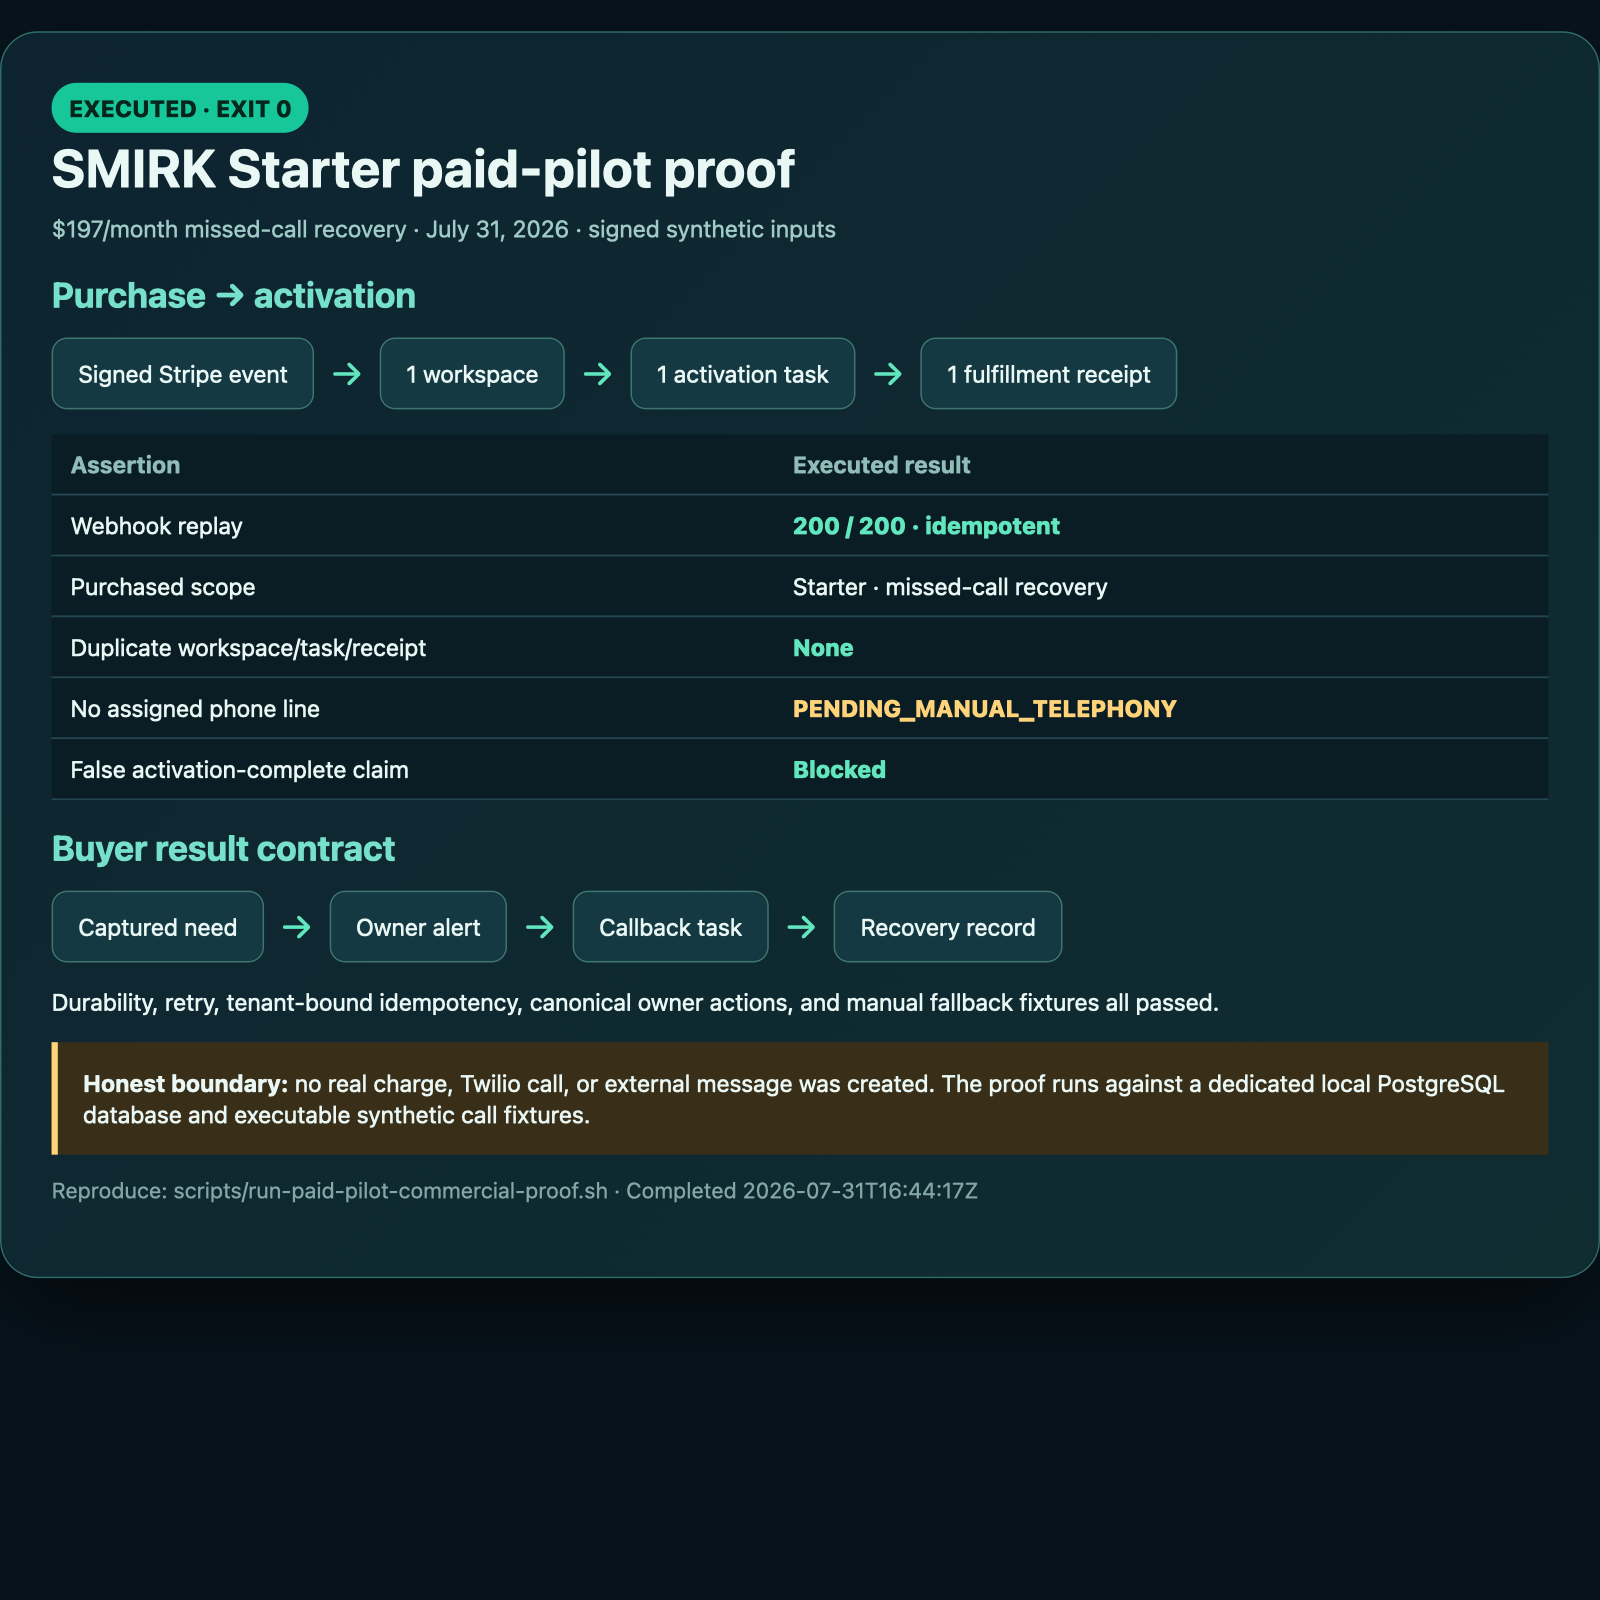
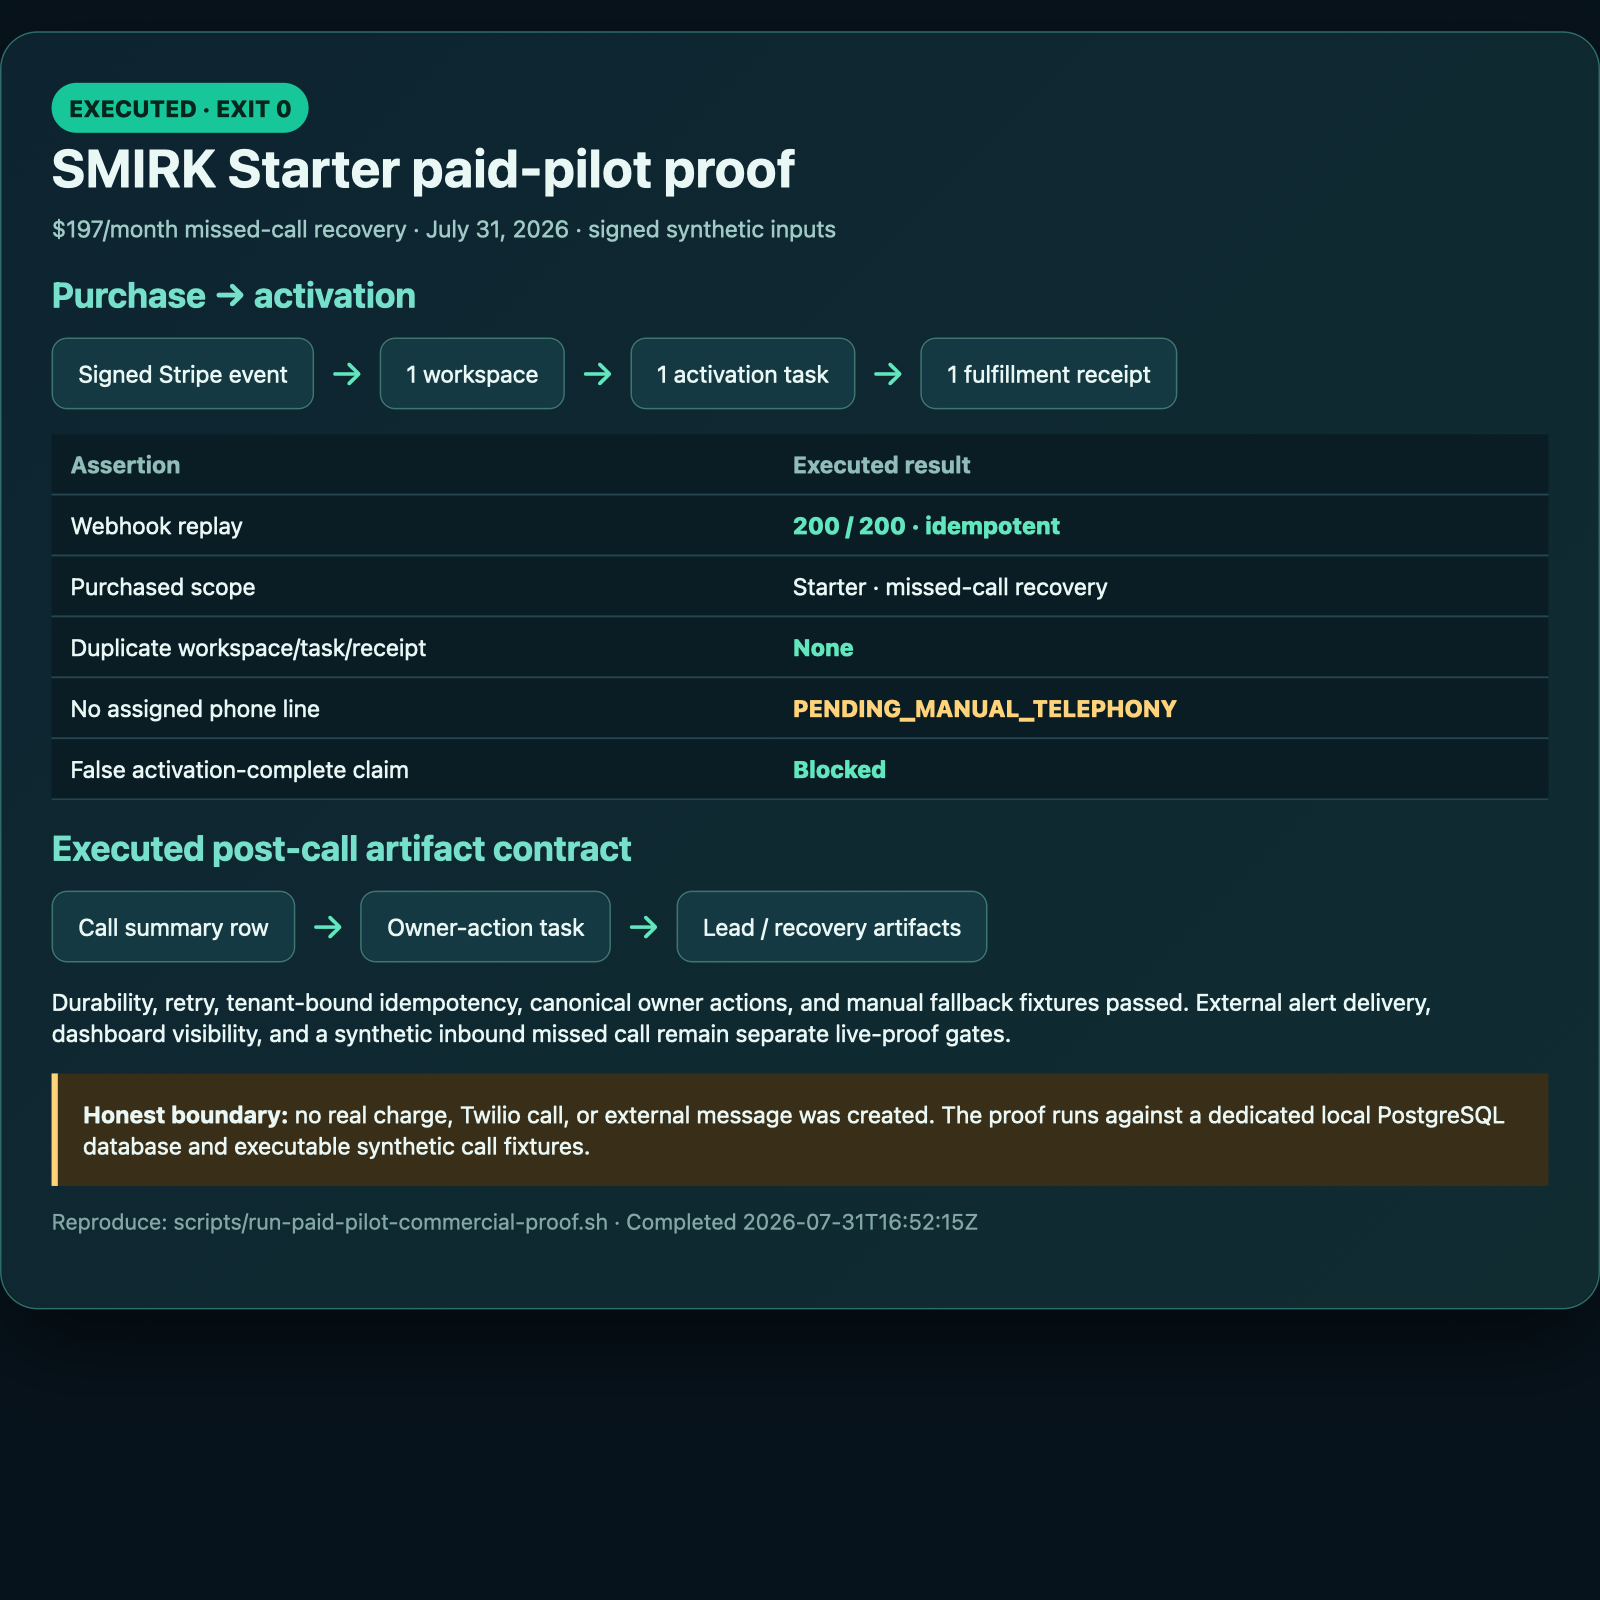
revenue: reconcile proof and outreach audit

Changed region(s): [[0.0, 0.625, 1.0, 0.8438], [0.0312, 0.5, 0.6562, 0.5938]]

diff --git a/artifacts/revenue/2026-07-31/SMIRK_STARTER_PAID_PILOT_PROOF.html b/artifacts/revenue/2026-07-31/SMIRK_STARTER_PAID_PILOT_PROOF.html
@@ -1,1 +1,1 @@
-<!doctype html><html><head><meta charset="utf-8"><title>SMIRK Paid-Pilot Proof</title><style>body{margin:0;background:#07131c;color:#e9f7f5;font:15px/1.35 -apple-system,BlinkMacSystemFont,"Segoe UI",sans-serif}main{max-width:1100px;margin:20px auto;padding:32px;background:linear-gradient(135deg,#0d2430,#102c31);border:1px solid #2d6c68;border-radius:24px;box-shadow:0 25px 70px #0008}h1{font-size:34px;margin:0 0 6px}.sub{color:#9fcac5;margin-bottom:18px}.badge{display:inline-block;background:#17c79a;color:#06251d;font-weight:800;padding:6px 11px;border-radius:99px}section{margin:16px 0}h2{color:#77e0cb;margin:12px 0}table{width:100%;border-collapse:collapse;background:#0a1d25}th,td{padding:9px 12px;border-bottom:1px solid #244650;text-align:left}th{color:#91bdb8}.pass{color:#62e6be;font-weight:800}.pending{color:#ffd37a;font-weight:800}.flow{display:flex;gap:10px;align-items:center;flex-wrap:wrap}.step{background:#153942;border:1px solid #3d756f;padding:12px 16px;border-radius:10px}.arrow{color:#62e6be;font-size:24px}.note{padding:16px;border-left:4px solid #ffd37a;background:#392f18}.foot{color:#83a7a5;font-size:14px}</style></head><body><main><span class="badge">EXECUTED · EXIT 0</span><h1>SMIRK Starter paid-pilot proof</h1><div class="sub">$197/month missed-call recovery · July 31, 2026 · signed synthetic inputs</div><section><h2>Purchase → activation</h2><div class="flow"><div class="step">Signed Stripe event</div><div class="arrow">→</div><div class="step">1 workspace</div><div class="arrow">→</div><div class="step">1 activation task</div><div class="arrow">→</div><div class="step">1 fulfillment receipt</div></div></section><section><table><tr><th>Assertion</th><th>Executed result</th></tr><tr><td>Webhook replay</td><td class="pass">200 / 200 · idempotent</td></tr><tr><td>Purchased scope</td><td>Starter · missed-call recovery</td></tr><tr><td>Duplicate workspace/task/receipt</td><td class="pass">None</td></tr><tr><td>No assigned phone line</td><td class="pending">PENDING_MANUAL_TELEPHONY</td></tr><tr><td>False activation-complete claim</td><td class="pass">Blocked</td></tr></table></section><section><h2>Buyer result contract</h2><div class="flow"><div class="step">Captured need</div><div class="arrow">→</div><div class="step">Owner alert</div><div class="arrow">→</div><div class="step">Callback task</div><div class="arrow">→</div><div class="step">Recovery record</div></div><p>Durability, retry, tenant-bound idempotency, canonical owner actions, and manual fallback fixtures all passed.</p></section><div class="note"><strong>Honest boundary:</strong> no real charge, Twilio call, or external message was created. The proof runs against a dedicated local PostgreSQL database and executable synthetic call fixtures.</div><p class="foot">Reproduce: scripts/run-paid-pilot-commercial-proof.sh · Completed 2026-07-31T16:44:17Z</p></main></body></html>
+<!doctype html><html><head><meta charset="utf-8"><title>SMIRK Paid-Pilot Proof</title><style>body{margin:0;background:#07131c;color:#e9f7f5;font:15px/1.35 -apple-system,BlinkMacSystemFont,"Segoe UI",sans-serif}main{max-width:1100px;margin:20px auto;padding:32px;background:linear-gradient(135deg,#0d2430,#102c31);border:1px solid #2d6c68;border-radius:24px;box-shadow:0 25px 70px #0008}h1{font-size:34px;margin:0 0 6px}.sub{color:#9fcac5;margin-bottom:18px}.badge{display:inline-block;background:#17c79a;color:#06251d;font-weight:800;padding:6px 11px;border-radius:99px}section{margin:16px 0}h2{color:#77e0cb;margin:12px 0}table{width:100%;border-collapse:collapse;background:#0a1d25}th,td{padding:9px 12px;border-bottom:1px solid #244650;text-align:left}th{color:#91bdb8}.pass{color:#62e6be;font-weight:800}.pending{color:#ffd37a;font-weight:800}.flow{display:flex;gap:10px;align-items:center;flex-wrap:wrap}.step{background:#153942;border:1px solid #3d756f;padding:12px 16px;border-radius:10px}.arrow{color:#62e6be;font-size:24px}.note{padding:16px;border-left:4px solid #ffd37a;background:#392f18}.foot{color:#83a7a5;font-size:14px}</style></head><body><main><span class="badge">EXECUTED · EXIT 0</span><h1>SMIRK Starter paid-pilot proof</h1><div class="sub">$197/month missed-call recovery · July 31, 2026 · signed synthetic inputs</div><section><h2>Purchase → activation</h2><div class="flow"><div class="step">Signed Stripe event</div><div class="arrow">→</div><div class="step">1 workspace</div><div class="arrow">→</div><div class="step">1 activation task</div><div class="arrow">→</div><div class="step">1 fulfillment receipt</div></div></section><section><table><tr><th>Assertion</th><th>Executed result</th></tr><tr><td>Webhook replay</td><td class="pass">200 / 200 · idempotent</td></tr><tr><td>Purchased scope</td><td>Starter · missed-call recovery</td></tr><tr><td>Duplicate workspace/task/receipt</td><td class="pass">None</td></tr><tr><td>No assigned phone line</td><td class="pending">PENDING_MANUAL_TELEPHONY</td></tr><tr><td>False activation-complete claim</td><td class="pass">Blocked</td></tr></table></section><section><h2>Executed post-call artifact contract</h2><div class="flow"><div class="step">Call summary row</div><div class="arrow">→</div><div class="step">Owner-action task</div><div class="arrow">→</div><div class="step">Lead / recovery artifacts</div></div><p>Durability, retry, tenant-bound idempotency, canonical owner actions, and manual fallback fixtures passed. External alert delivery, dashboard visibility, and a synthetic inbound missed call remain separate live-proof gates.</p></section><div class="note"><strong>Honest boundary:</strong> no real charge, Twilio call, or external message was created. The proof runs against a dedicated local PostgreSQL database and executable synthetic call fixtures.</div><p class="foot">Reproduce: scripts/run-paid-pilot-commercial-proof.sh · Completed 2026-07-31T16:52:15Z</p></main></body></html>

diff --git a/artifacts/revenue/2026-07-31/MASTER_SERVICE_PLUMBING_FIRST_TOUCH_DECISION.md b/artifacts/revenue/2026-07-31/MASTER_SERVICE_PLUMBING_FIRST_TOUCH_DECISION.md
@@ -1,7 +1,11 @@
 # First-touch decision — Master Service Plumbing
 
-**State:** `AWAITING_CAMERON_DECISION`  
-**Recommended decision:** `SEND`  
+**State:** `HOLD — EXPLICIT WEBSITE-FORM APPROVAL REQUIRED`
+
+**Standing authorization covers this channel:** `NO`
+
+**Recommended next decision:** `SEND` the exact draft below after Cameron approves this gate
+
 **Channel:** one manual website contact-form submission  
 **No outreach has been sent.**
 
@@ -13,12 +17,20 @@
 | Call-dependent service | Official site prominently presents a public `Call Now` path for plumbing service. |
 | Reachable | Public contact form is live at <https://masterserviceplumbing.com/contact-us/>. |
 | Exact offer fit | Plumbing calls commonly carry an issue, urgency, location, and callback window—the exact fields in the SMIRK recovery record. |
-| Prior touch | Canonical prospect ledger says `researched`, `touch_count=0`, and `no message sent`. |
-| Suppression/reply check | No Master Service Plumbing or `masterservice` match in `outbound/suppression.txt`, `campaign_ledger.csv`, or `replies.json`. |
+| Prior touch | Canonical prospect ledger says `researched`, `touch_count=0`, and `no message sent`; Master Service Plumbing is not in the July 29 approved email batch. |
+| Suppression/reply check | No Master Service Plumbing or `masterservice` match in `outbound/suppression.txt`, `campaign_ledger.csv`, or `replies.json`; no new email address may be used without checking that exact address. |
+| Authorization | Historical standing authority is email-only; it does **not** authorize this website-form submission. This card is the required exact gate. |
 | Proof ready | Local executable proof exits `0` and demonstrates exactly-once paid workspace/task creation, honest manual-telephony pending state, and durable post-call artifacts. |
 
 **Primary source:** <https://masterserviceplumbing.com/>  
-**Exact contact path:** <https://masterserviceplumbing.com/contact-us/>
+**Exact contact path (refreshed HTTP 200 on 2026-07-31):** <https://masterserviceplumbing.com/contact-us/>
+
+## Offer-lane reconciliation
+
+- Canonical public Starter price: **$197/month**.
+- Existing Reno founders collateral: **$99/month**, invite-only/first-batch, locked while subscribed.
+- This first-touch message quotes **neither** price, so it does not silently mix the public and founders lanes.
+- Any later price quote requires choosing the applicable lane explicitly; no discount or founders entitlement is promised here.
 
 ## Verbatim first touch
 

diff --git a/artifacts/revenue/2026-07-31/SMIRK_STARTER_PAID_PILOT_PROOF.md b/artifacts/revenue/2026-07-31/SMIRK_STARTER_PAID_PILOT_PROOF.md
@@ -6,13 +6,15 @@
 
 ## What a buyer receives
 
-When a caller reaches the SMIRK backup path, SMIRK captures the caller's issue, urgency, service area, and preferred callback window. It then creates:
+When the live SMIRK call path runs, it is designed to create:
 
 1. a durable call/recovery record;
-2. a callback-ready owner summary;
-3. an owner notification with an idempotency key;
-4. a callback/follow-up task in the buyer queue; and
-5. dashboard proof that the recovery artifacts completed.
+2. a call summary;
+3. a canonical callback/follow-up owner-action task;
+4. an owner-notification event; and
+5. dashboard proof correlated to the call.
+
+The local commercial proof below directly executes the purchase/replay/activation path and the durable summary/task/lead artifact fixtures. **It does not directly execute delivery of an external owner notification, dashboard visibility, or a synthetic inbound missed call as one contiguous transaction.**
 
 ## Executed purchase-to-activation evidence
 
@@ -50,7 +52,7 @@ cd /Users/cameronchurch/OpenClaw/workspace/ai-phone-agent-from-gemini-pilot-hard
 scripts/run-paid-pilot-commercial-proof.sh
 ```
 
-**Verified result:** exit `0` at `2026-07-31T16:44:17Z`.
+**Verified result:** exit `0` at `2026-07-31T16:52:15Z`.
 
 Raw outputs:
 
@@ -60,4 +62,4 @@ Raw outputs:
 
 ## Scope boundary
 
-This proves the signed purchase/replay/activation path against a dedicated local PostgreSQL database and proves the call-result contract with executable synthetic fixtures. It does **not** represent a real Stripe charge, a real Twilio call, a delivered external email, or a single live production transaction. A paid workspace without a number remains pending manual telephony rather than being falsely reported as activated.
+This proves the signed purchase/replay/activation path against a dedicated local PostgreSQL database and proves durable summary/task/lead artifact behavior with executable synthetic fixtures. It does **not** represent a real Stripe charge, a real Twilio call, a delivered external email, dashboard visibility, structured capture of issue/urgency/callback window, or a single live production transaction. A paid workspace without a number remains pending manual telephony rather than being falsely reported as activated.
